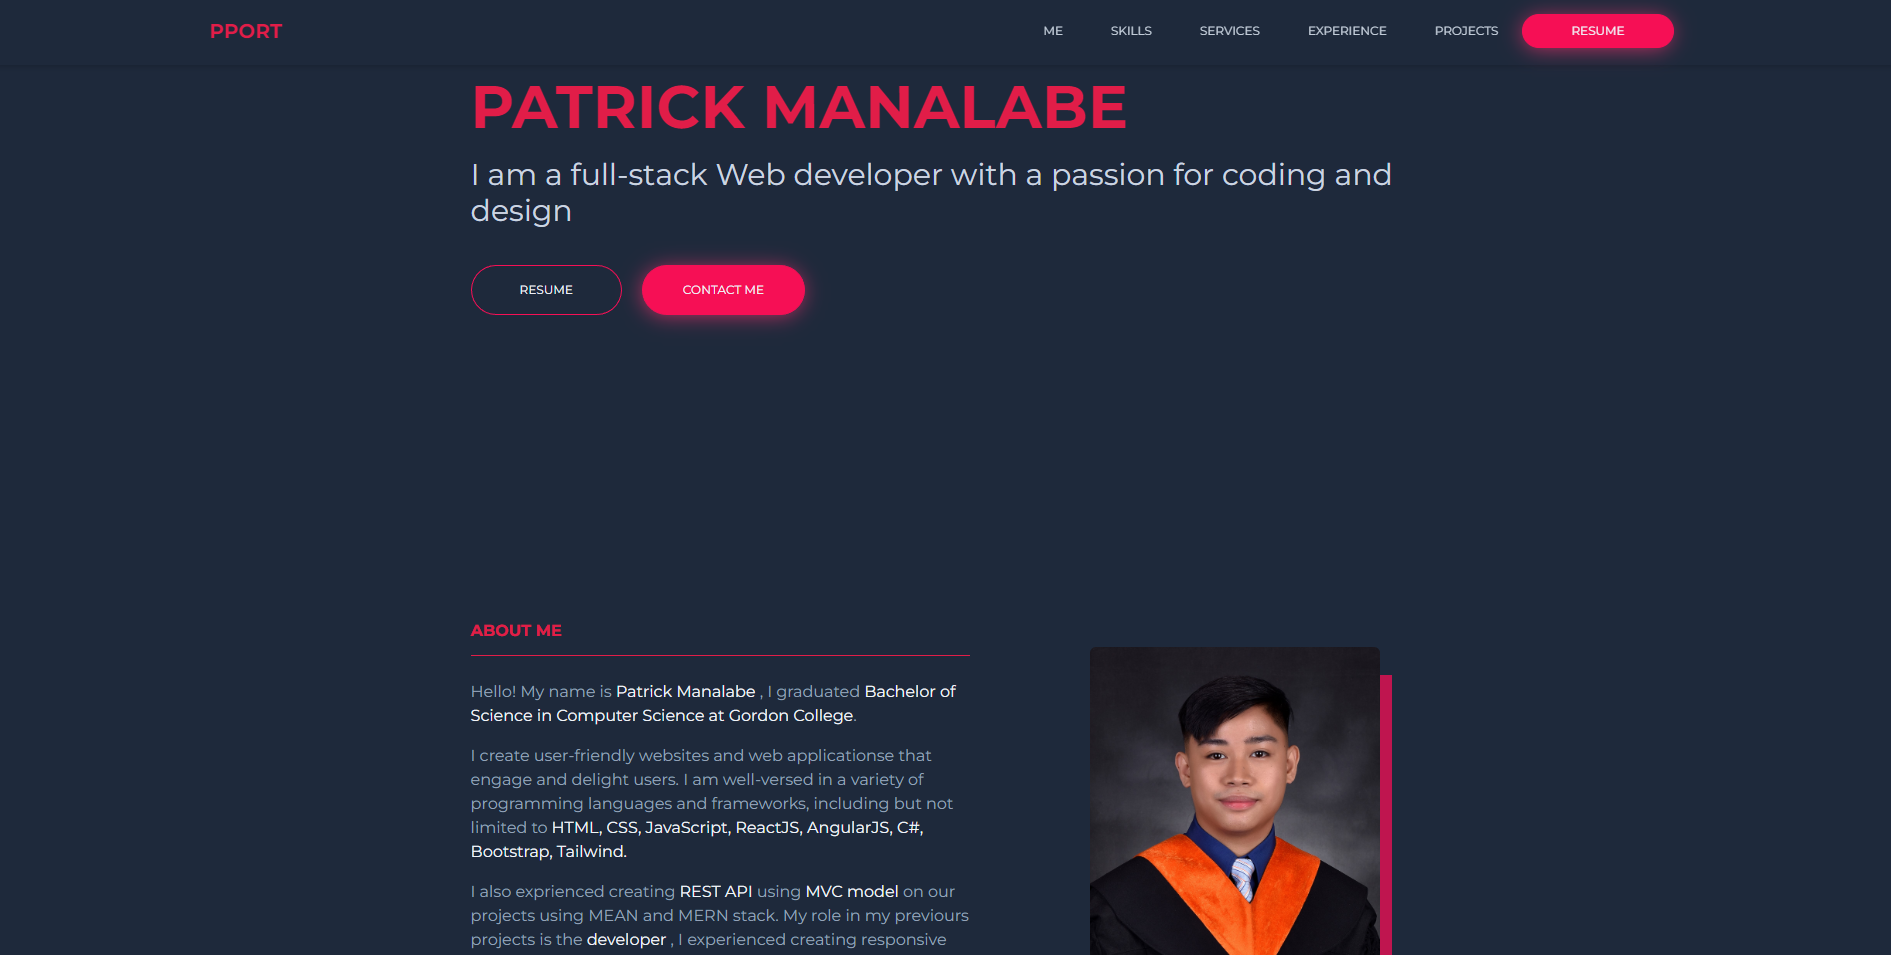
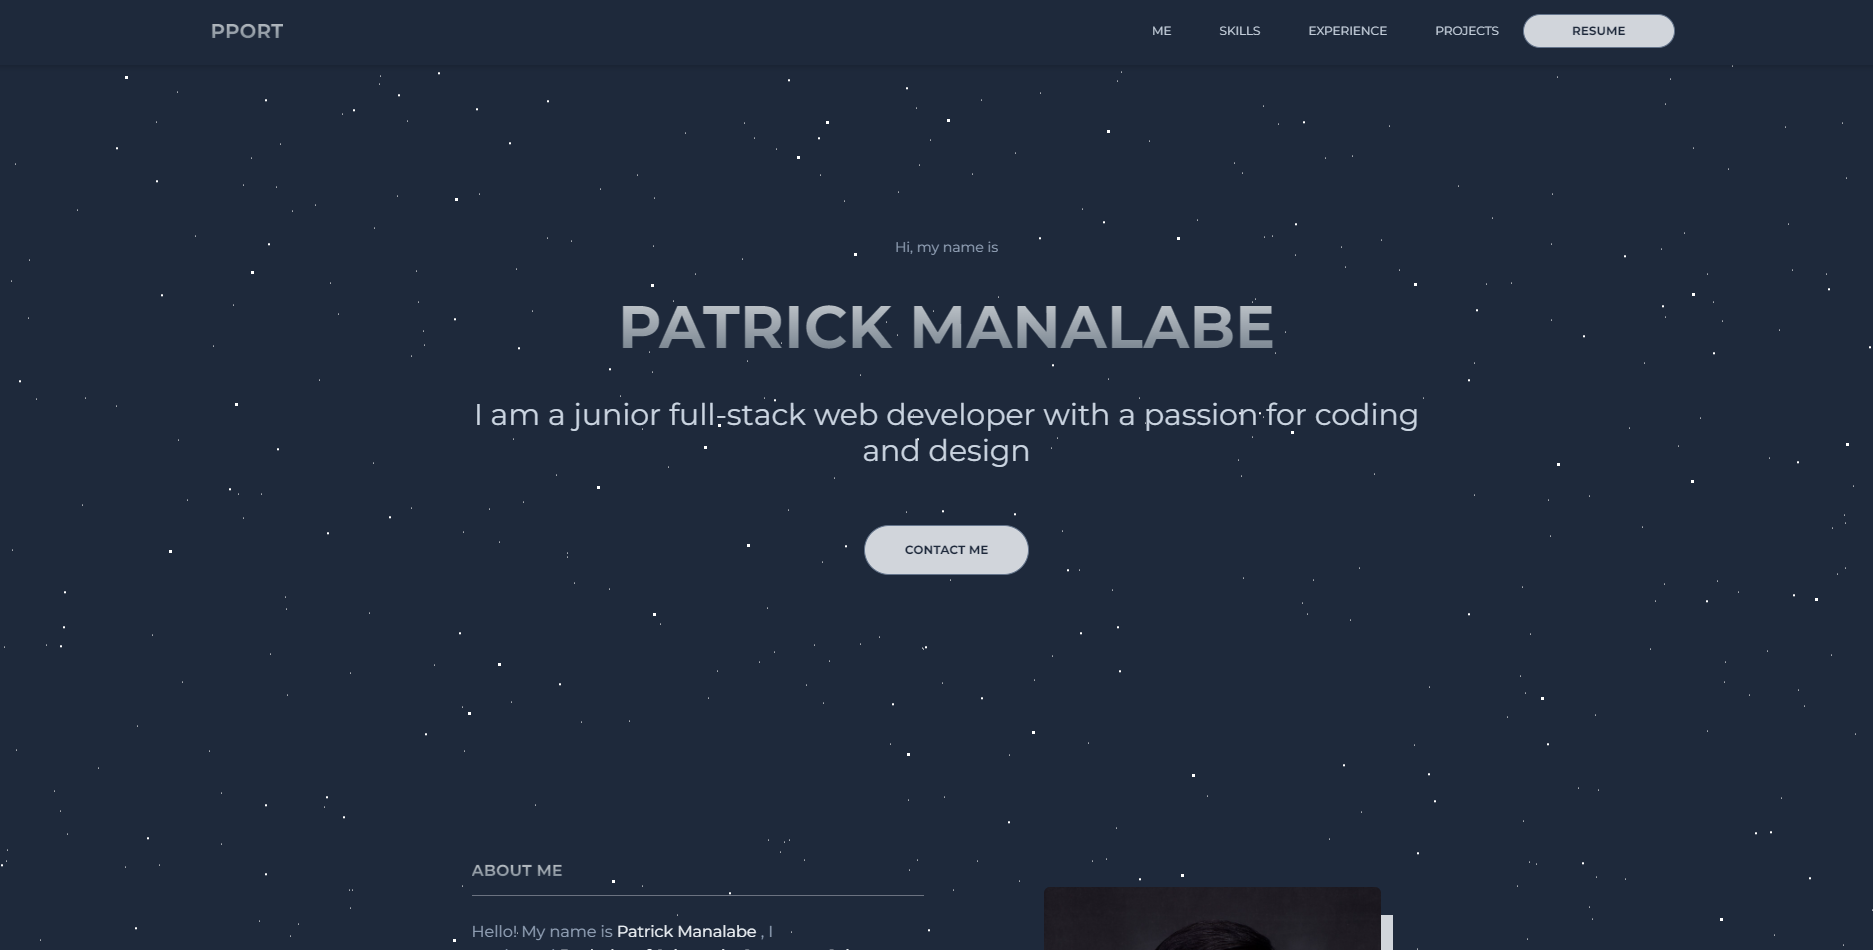
portfolio ver 1 done

diff --git a/src/Components/Navbar.jsx b/src/Components/Navbar.jsx
@@ -44,7 +44,16 @@ export const Navbar = ({ jump }) => {
             >
               EXPERIENCE
             </li>
-            <li className="py-4 px-6 text-slate-300 text-xs">PROJECTS</li>
+            <li
+              className="py-4 px-6 text-slate-300 text-xs"
+              onClick={() =>
+                document.getElementById("projects").scrollIntoView({
+                  behavior: "smooth",
+                })
+              }
+            >
+              PROJECTS
+            </li>
             <li>
               <button
                 className="py-2 px-12 text-slate-100 text-xs bg-rose-700 rounded-full glow-resume"
@@ -90,11 +99,22 @@ export const Navbar = ({ jump }) => {
                 >
                   EXPERIENCE
                 </li>
-                <li className="py-8 px-6 w-full text-slate-300 text-xs">
+                <li
+                  className="py-8 px-6 w-full text-slate-300 text-xs"
+                  onClick={() =>
+                    document.getElementById("projects").scrollIntoView({
+                      behavior: "smooth",
+                    })
+                  }
+                >
                   PROJECTS
                 </li>
                 <li>
-                  <button className="py-2 px-12 text-slate-100 text-xs bg-rose-700 rounded-full">
+                  <button
+                    className="py-2 px-12 text-slate-700 text-xs rounded-full"
+                    style={{ background: "#d1d5db" }}
+                    onClick={openResume}
+                  >
                     RESUME
                   </button>
                 </li>

diff --git a/src/Components/Projects.jsx b/src/Components/Projects.jsx
@@ -10,8 +10,27 @@ import acemcb from "../Assets/images/acemcb.png";
 
 const Projects = () => {
   return (
-    <div>
-      <section className="pt-25 pt-1/2 p-8 md:px-24 pt-60 xl:w-3/5 xl:m-auto lg:w-full">
+    <section
+      className="pt-30 pt-1/2 p-8 content md:px-24 xl:w-3/5 xl:m-auto"
+      id="projects"
+    >
+      <h1 className="text-bmd py-3 text-rose-600 font-bold md:text-base">
+        Sample Projects
+      </h1>
+      <hr className="text-slate-100  py-2" />
+      <div className=" md:flex md:justify-around ">
+        <Project img={expenseTracker} title={"Expense Tracker"} />
+        <Project img={myPort} title={"This Portfolio"} />
+      </div>
+      <div className=" md:flex md:justify-around mt-20">
+        <Project img={giolostsImg} title={"Giolosts Website"} />
+        <Project img={acemcb} title={"ACEMCB website features update"} />
+      </div>
+      <div className=" md:flex md:justify-around mt-20">
+        <Project img={gcap} title={"Gordon college Alumni Portal"} />
+      </div>
+
+      {/* <section className="pt-25 pt-1/2 p-8 md:px-24 pt-60 xl:w-3/5 xl:m-auto lg:w-1/2">
         <h1 className="text-bmd py-3 text-rose-600 font-bold md:text-base">
           Sample Projects
         </h1>
@@ -30,8 +49,8 @@ const Projects = () => {
         <div className="block md:flex justify-between">
           <Project img={acemcb} title={"ADDED FEATURES FOR ACEMCB WEBSITE "} />
         </div>
-      </section>
-    </div>
+      </section> */}
+    </section>
   );
 };
 

diff --git a/src/Components/ContactMe.jsx b/src/Components/ContactMe.jsx
@@ -1,13 +1,33 @@
 import React from "react";
 
+import FadeInOnScroll from "../Utils/FadeInOnScroll";
+import { useState } from "react";
+import TypingText from "../Utils/TypingText";
+
 const ContactMe = () => {
   return (
-    <section className="pt-25 pt-1/2 p-8 md:px-24 pt-60 xl:w-3/5 xl:m-auto lg:w-full">
-      <p>Get in Touch</p>
-      <button className="py-2 px-12 text-slate-100 text-xs bg-rose-700 rounded-full glow-resume">
-        CONTACT ME
-      </button>
-    </section>
+    <div>
+      <section className="pt-25 pt-1/2 p-8 md:px-24 pt-60 xl:w-3/5 xl:m-auto lg:w-full">
+        <FadeInOnScroll>
+          <TypingText
+            text="GET IN TOUCH"
+            className={"text-4xl py-10 text-rose-600 font-bold text-center"}
+          />
+          <div>
+            <button
+              className="py-4 px-10 text-slate-100 text-xs  rounded-full glow-resume block m-auto"
+              onClick={() =>
+                document.getElementById("about_me").scrollIntoView({
+                  behavior: "smooth",
+                })
+              }
+            >
+              CLICK HERE
+            </button>
+          </div>
+        </FadeInOnScroll>
+      </section>
+    </div>
   );
 };
 

diff --git a/src/Components/Project.jsx b/src/Components/Project.jsx
@@ -6,7 +6,14 @@ const Project = ({ img, title }) => {
   return (
     <>
       <FadeInOnScroll>
-        <div className="h-64 cursor-pointer mt-20 ">
+        <section className="md:w-96 bg-slate-400 h-64 rounded-md mt-20">
+          <img src={img} className="w-full h-full object-cover rounded-md" />
+          <h1 className="text-bmd py-3 text-rose-600 font-bold md:text-base text-center">
+            {title}
+          </h1>
+        </section>
+
+        {/* <div className="h-64 cursor-pointer mt-20">
           <img
             src={img}
             alt="background"
@@ -15,7 +22,7 @@ const Project = ({ img, title }) => {
           <p className="text-slate-200 text-md mt-4 py-2 md:text-base text-center">
             {title}
           </p>
-        </div>
+        </div> */}
       </FadeInOnScroll>
     </>
   );

diff --git a/src/Components/Tools.jsx b/src/Components/Tools.jsx
@@ -4,12 +4,12 @@ import FadeInOnScroll from "../Utils/FadeInOnScroll";
 
 export const Tools = ({ icon, text }) => {
   return (
-    <div className="w-1/3 py-3 lg:w-1/4">
+    <div className="w-1/4 py-3 lg:w-1/4 ">
       <FadeInOnScroll>
         <img src={icon} alt="icon" className="w-12 m-auto" />
-        <p className="text-slate-400 text-xs  py-2 md:text-base text-center">
+        {/* <p className="text-slate-400 text-xs  py-2 md:text-base text-center">
           {text}
-        </p>
+        </p> */}
       </FadeInOnScroll>
     </div>
   );

diff --git a/src/Components/AboutMe.jsx b/src/Components/AboutMe.jsx
@@ -26,7 +26,8 @@ const AboutMe = ({ facebook, link, insta, github, TogaPic }) => {
             }
           />
           <p className="text-slate-300 pb-4 lg:text-3xl text-center">
-            I am a full-stack web developer with a passion for coding and design
+            I am a junior full-stack web developer with a passion for coding and
+            design
           </p>
           <div>
             <button
